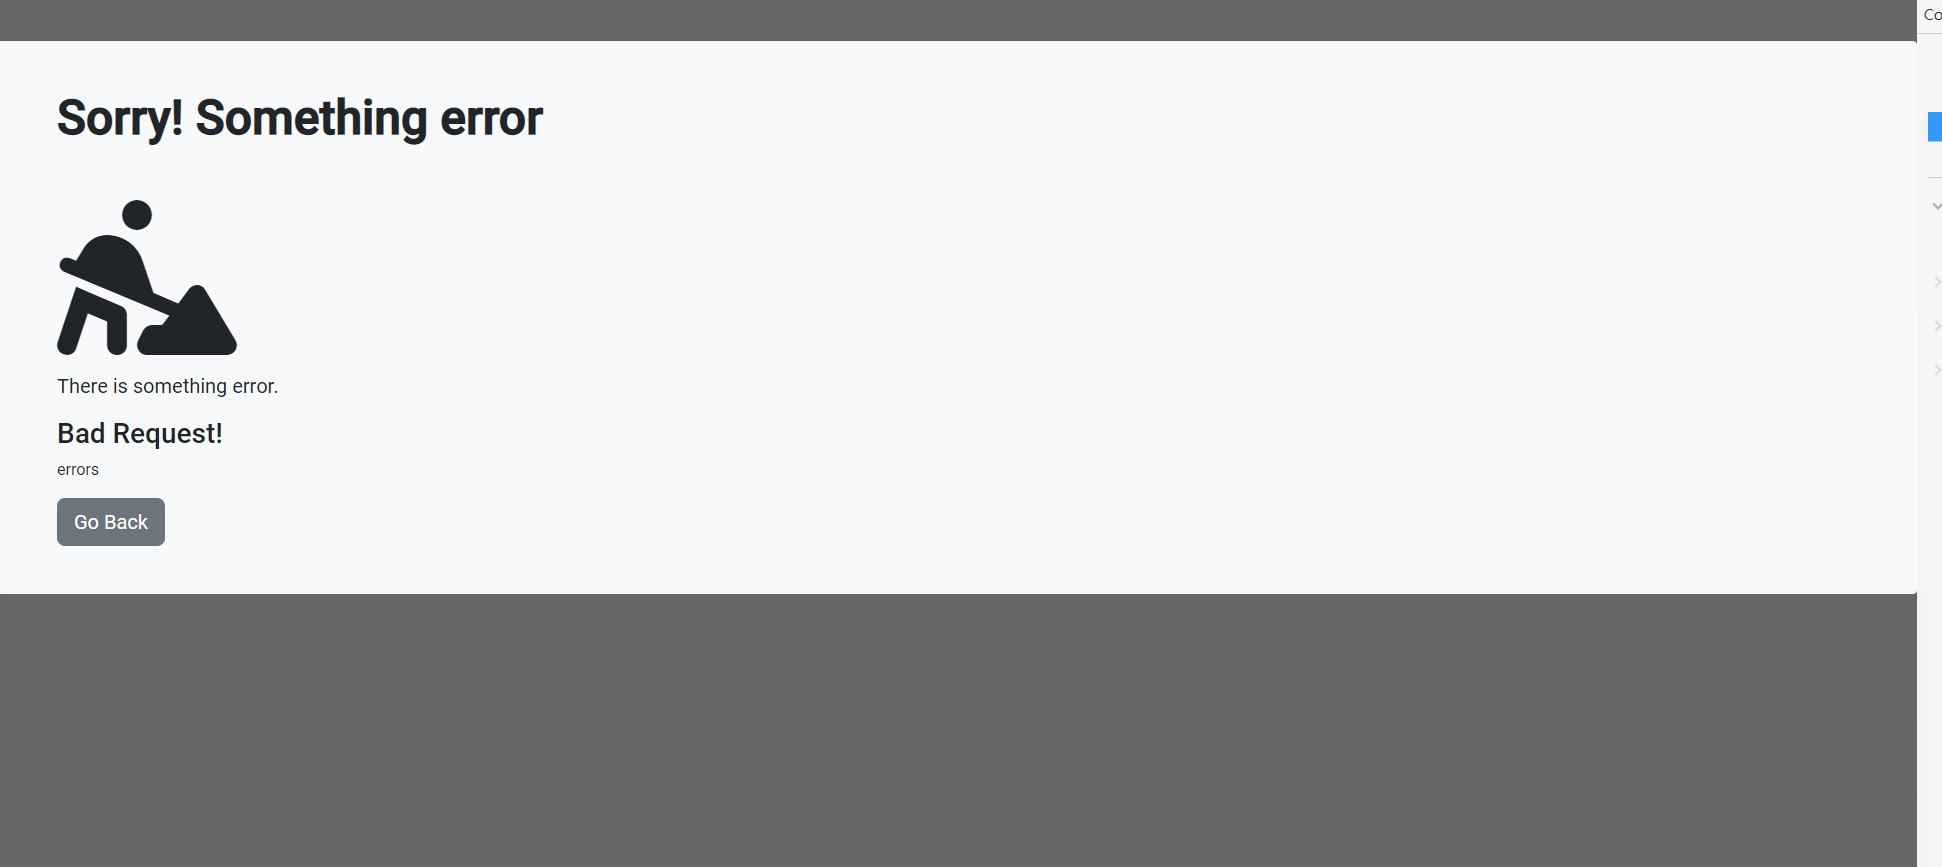
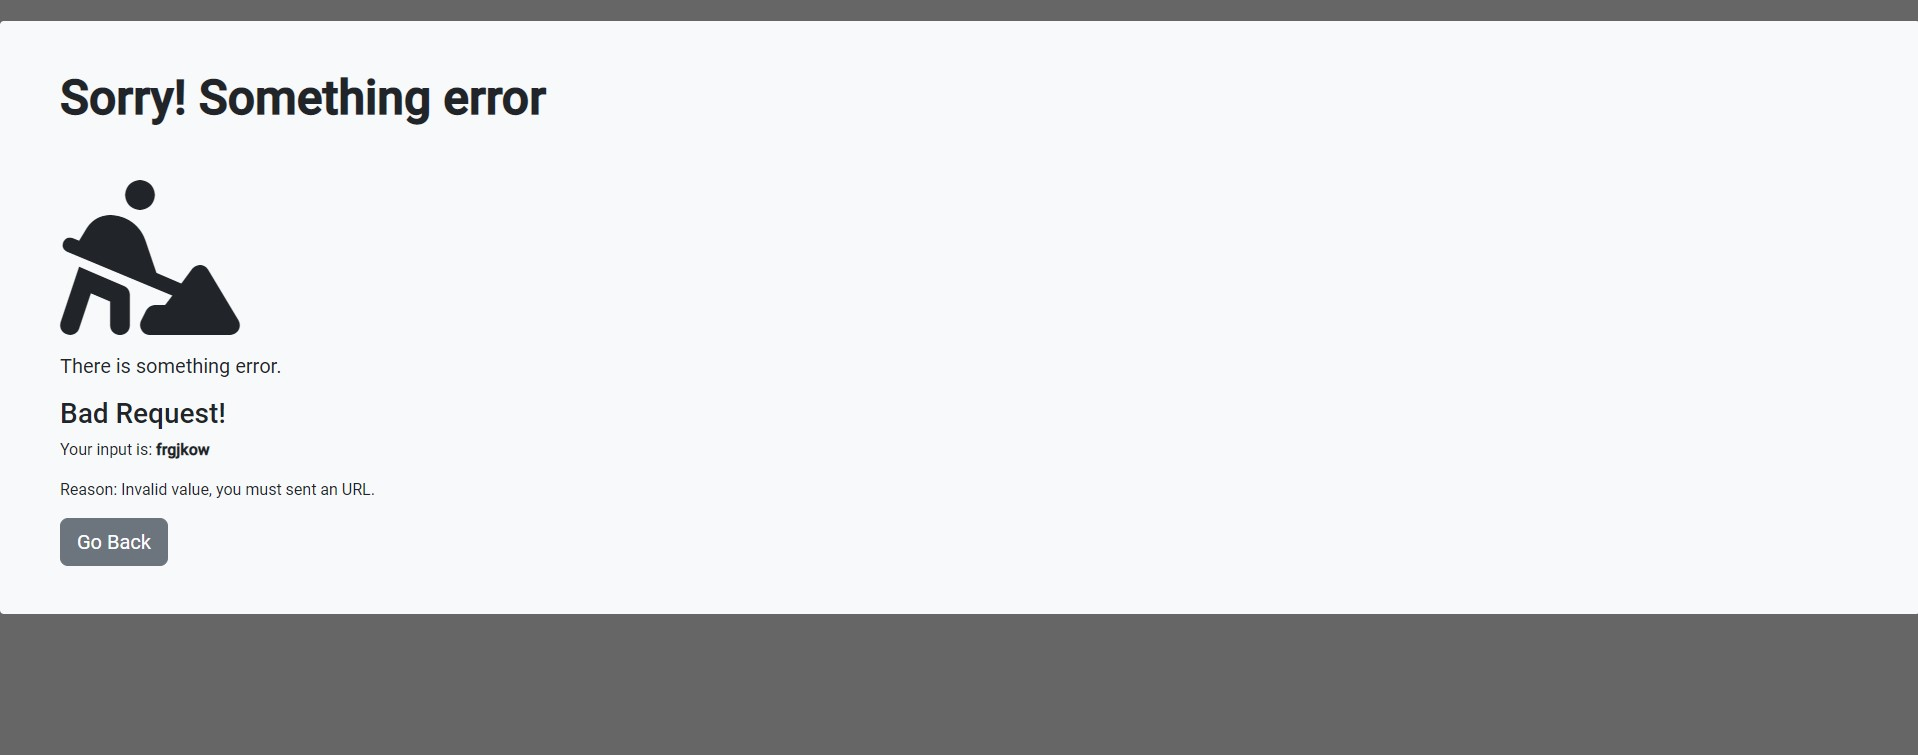
refactor: modify copy function and success route

diff --git a/public/javascripts/main.js b/public/javascripts/main.js
@@ -4,14 +4,28 @@ function copyToClipboard() {
   const copyText = document.querySelector('#urlGenerated')
 
   // Select the text field
+  copyText.focus()
   copyText.select()
   copyText.setSelectionRange(0, 99999) // For mobile devices
-
+  if (!navigator.clipboard) {
+    try {
+      const copied = document.execCommand('copy')
+      console.log(
+        'navigator.clipboardAPI is not available, copied by execCommand: ',
+        copied
+      )
+      alert('URL Copied: ' + copyText.value)
+    } catch (error) {
+      console.log('Sorry, copied failed...', error)
+    }
+    return
+  }
   // Copy the text inside the text field
-  navigator.clipboard.writeText(copyText.value.trim())
+  navigator.clipboard
+    .writeText(copyText.value)
+    .then(() => alert('URL Copied: ' + copyText.value))
+    .catch((error) => console.error('Failed copied with two method!', error))
 
-  // Alert the copied text
-  alert('URL Copied: ' + copyText.value)
 }
 
 // 前端表單驗證，阻擋不合規表單

diff --git a/routes/modules/home.js b/routes/modules/home.js
@@ -13,7 +13,7 @@ router.get('/', (req, res) => {
 
 // client送出URL，提交表單給root
 router.post(
-  '/',
+  '/shortenUrls',
   // urlInput must be an url
   body('urlInput').isURL(),
   (req, res) => {
@@ -27,7 +27,7 @@ router.post(
     if (!errors.isEmpty()) {
       let badRequest = true
       return res.status(400).render('error', {
-        errors: errors.array(),
+        error: errors.array()[0],
         Origin,
         badRequest,
       })
@@ -35,7 +35,10 @@ router.post(
 
     Record.findOne({ $and: [{ shortenID }, { originalUrl }] })
       .then(data => {
-        data ? data : Record.create({ shortenID, originalUrl })
+        if (data) {
+          return data
+        }
+        return Record.create({ shortenID, originalUrl })
       })
       .then(data => {
         isInDB = true

diff --git a/public/stylesheets/style.css b/public/stylesheets/style.css
@@ -23,3 +23,10 @@ body {
   padding: 0.5rem 2rem 0.5rem 2rem;
   border-radius: 0%;
 }
+
+#back-button {
+  padding: 0.5rem 1rem 0.5rem 1rem;
+  margin-left: 1rem;
+  border-radius: 0%;
+  opacity: 80%;
+}
